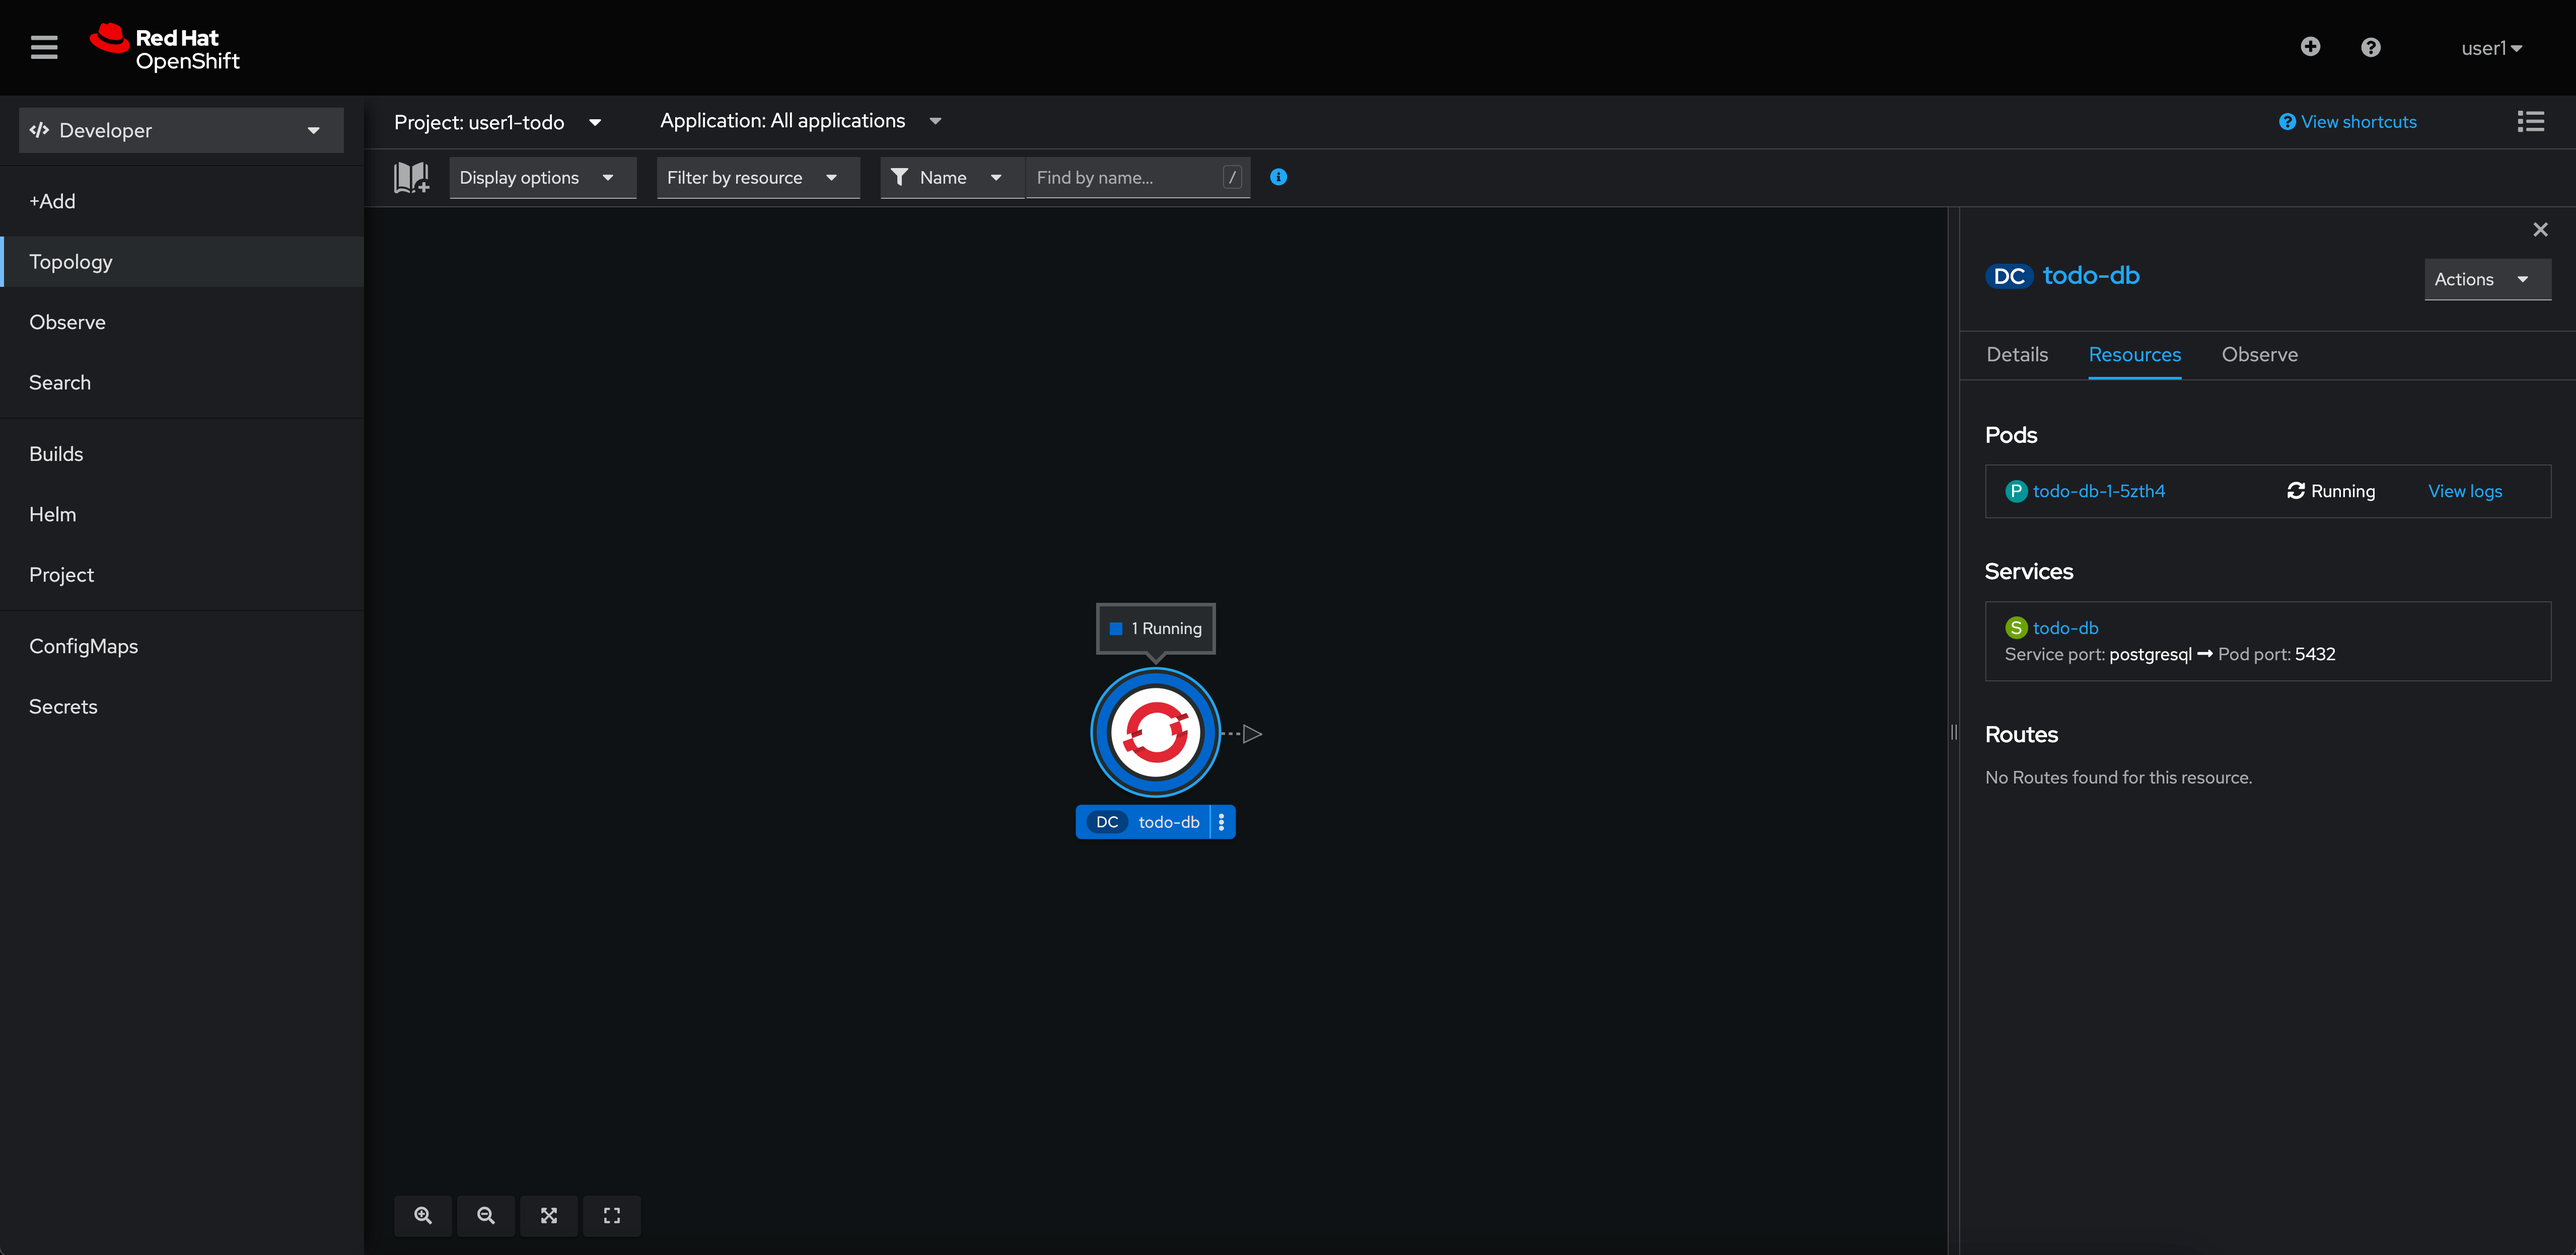
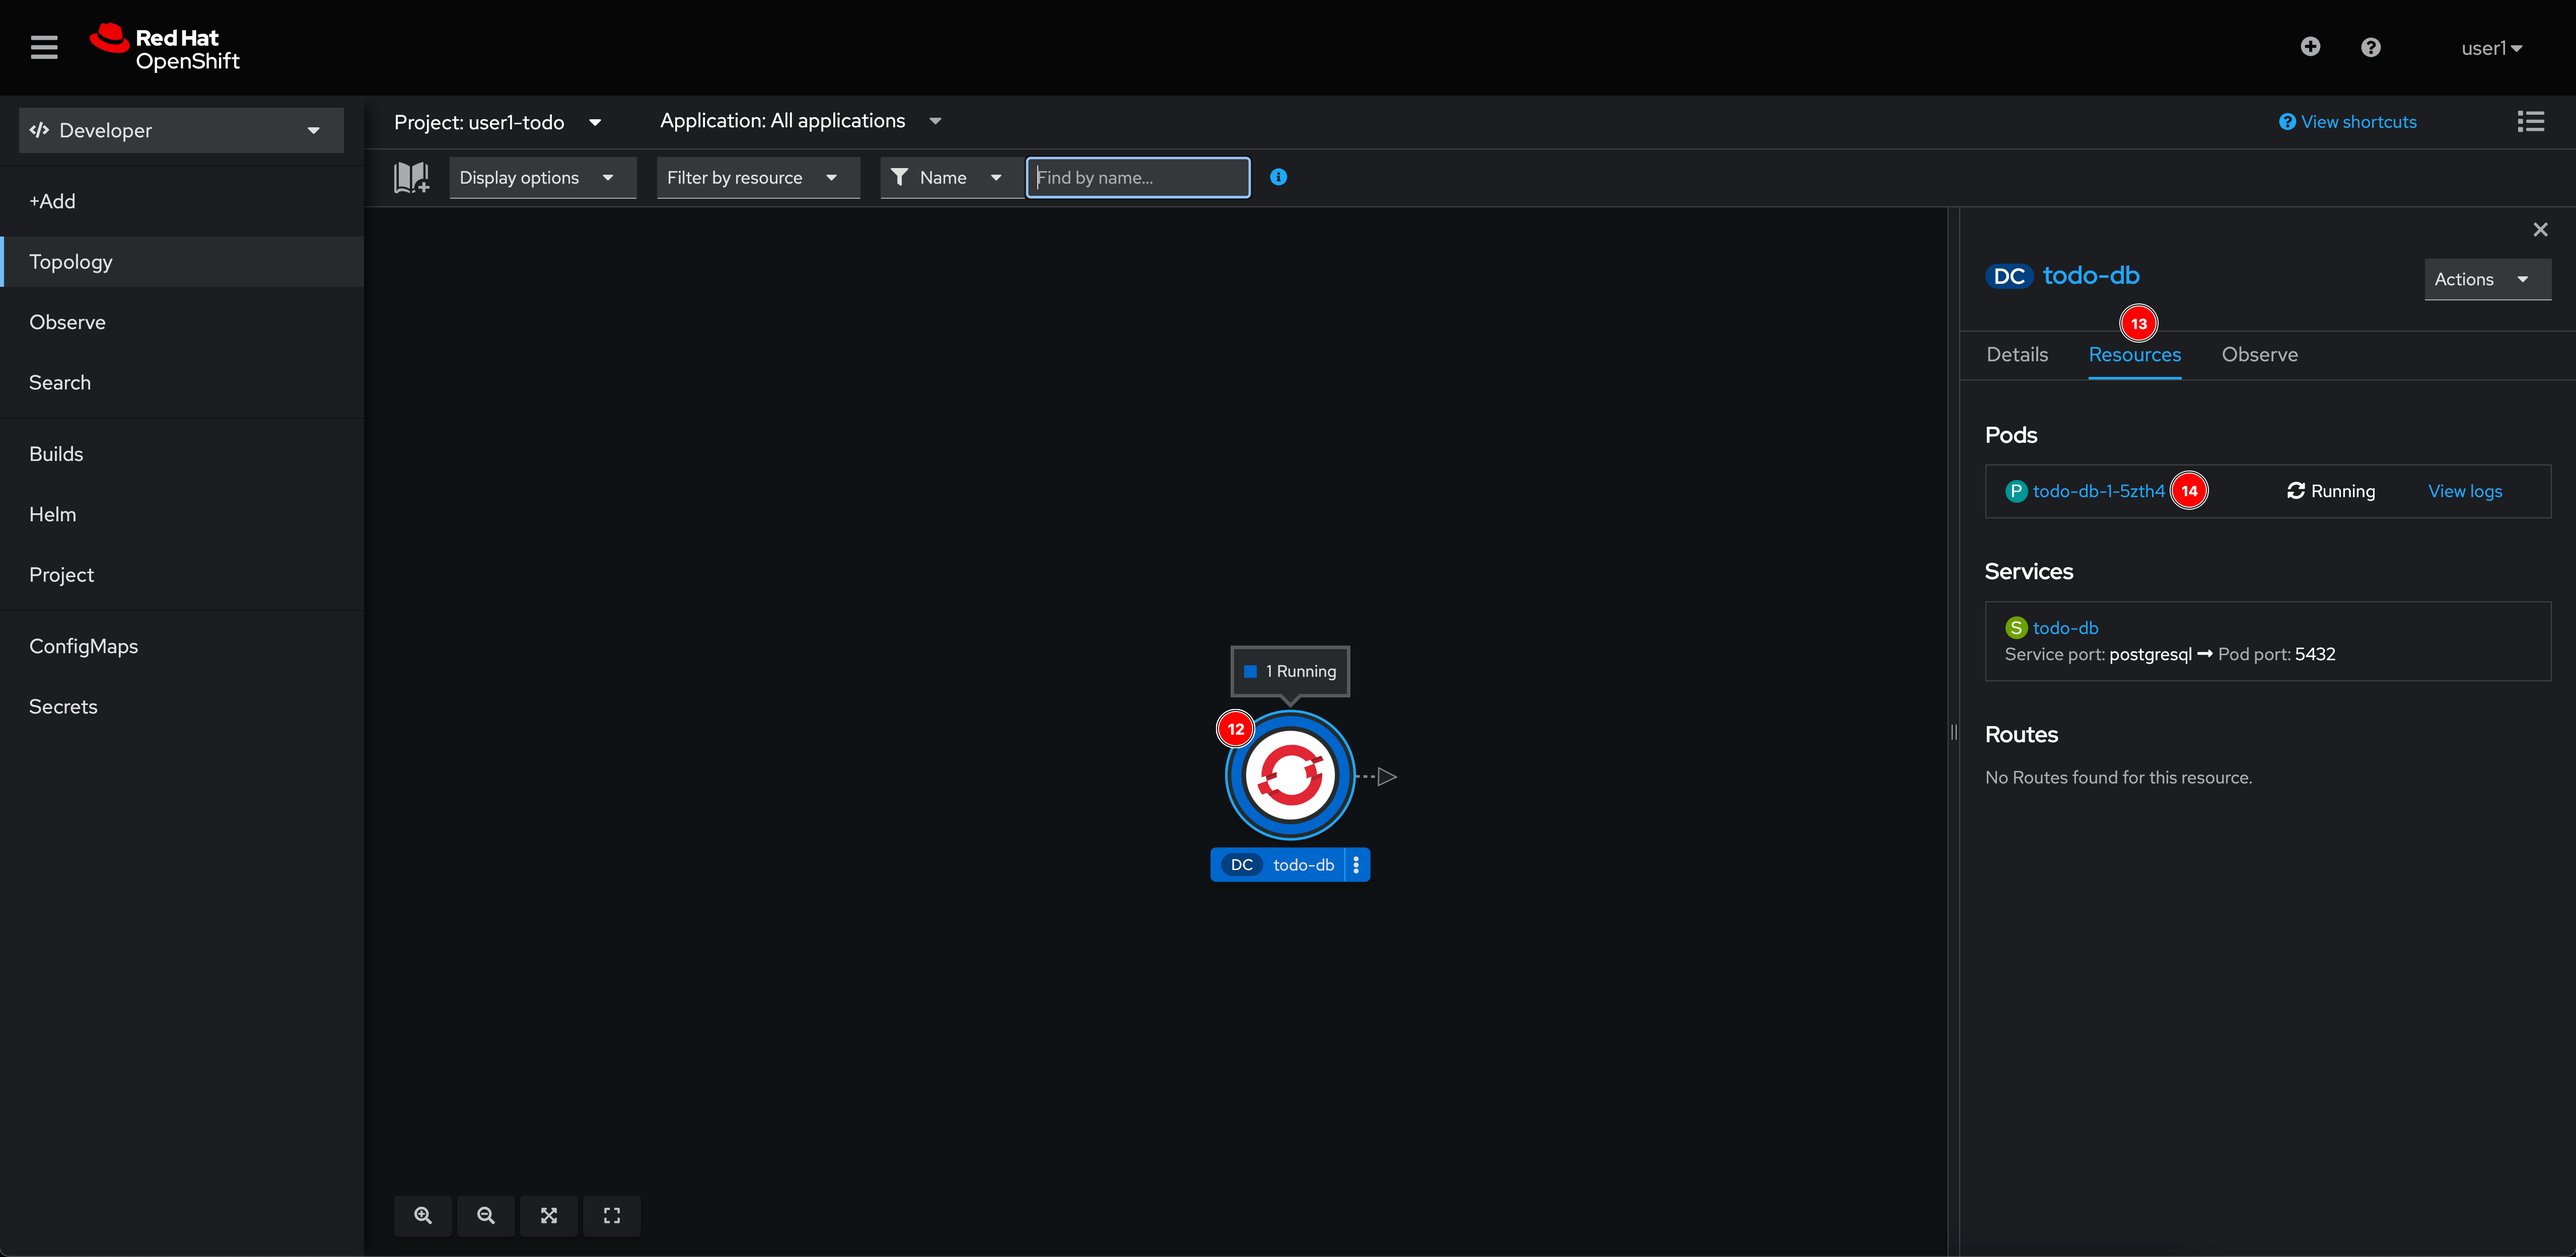
Complete the Deployment On OpenShift section

diff --git a/document/deployment-on-openshift/database-deployment.md b/document/deployment-on-openshift/database-deployment.md
@@ -43,7 +43,98 @@
 
    ![Enter database details](images/deploy-08.png)
 
-10. Wait until the **todo-db** node is surround with blue ring then click on the node. A panel will show up on the right side, click on the **Resources** tab to see Pods and Services.
+10. Wait until the **todo-db** node is surround with blue ring then click on the node. A panel will show up on the right side, click on the **Resources** tab to see Pods and Services. Then click on the Pod name.
 
-![Database pod is up and running](images/deploy-09.png)
+    ![Resources](images/deploy-09.png)
 
+11. Go to **Terminal** tab.
+
+    ![Open a web terminal](images/deploy-20.png)
+
+12. Enter following command. The password is `pgpassword`
+
+    ```sh
+    psql postgresql://todo-db:5432/todo?user=pguser
+    ```
+
+    _Example Output_
+
+    ```sh
+    psql (10.23)
+    Type "help" for help.
+
+    todo=#
+    ```
+
+13. Copy these SQL statements and paste to the terminal then press `Enter` on keyboard.
+
+    ```sql
+    drop table if exists Todo;
+    drop sequence if exists hibernate_sequence;
+    create sequence hibernate_sequence start 1 increment 1;
+    create table Todo (
+        id int8 not null,
+        completed boolean not null,
+        ordering int4,
+        title varchar(255),
+        url varchar(255),
+        primary key (id)
+        );
+    alter table if exists Todo
+        add constraint unique_title unique (title);
+    INSERT INTO todo(id, title, completed, ordering, url) VALUES (nextval('hibernate_sequence'), 'Introduction to Quarkus', true, 0, null);
+    INSERT INTO todo(id, title, completed, ordering, url) VALUES (nextval('hibernate_sequence'), 'Hibernate with Panache', false, 1, null);
+    INSERT INTO todo(id, title, completed, ordering, url) VALUES (nextval('hibernate_sequence'), 'Visit Quarkus web site', false, 2, 'https://quarkus.io');
+    INSERT INTO todo(id, title, completed, ordering, url) VALUES (nextval('hibernate_sequence'), 'Star Quarkus project', false, 3, 'https://github.com/quarkusio/quarkus/');
+    ```
+
+    _Example Output_
+
+    ```text
+    Type "help" for help.
+
+    postgres=# drop table if exists Todo;
+    NOTICE:  table "todo" does not exist, skipping
+    DROP TABLE
+    postgres=# drop sequence if exists hibernate_sequence;
+    NOTICE:  sequence "hibernate_sequence" does not exist, skipping
+    DROP SEQUENCE
+    postgres=# create sequence hibernate_sequence start 1 increment 1;
+    CREATE SEQUENCE
+    postgres=# create table Todo (
+    postgres(#        id int8 not null,
+    postgres(#        completed boolean not null,
+    postgres(#        ordering int4,
+    postgres(#        title varchar(255),
+    postgres(#        url varchar(255),
+    postgres(#        primary key (id)
+    postgres(#     );
+    CREATE TABLE
+    postgres=# alter table if exists Todo
+    postgres-#     add constraint unique_title unique (title);
+    ALTER TABLE
+    postgres=# INSERT INTO todo(id, title, completed, ordering, url) VALUES (nextval('hibernate_sequence'), 'Introduction to Quarkus', true, 0, null);
+    INSERT 0 1
+    postgres=# INSERT INTO todo(id, title, completed, ordering, url) VALUES (nextval('hibernate_sequence'), 'Hibernate with Panache', false, 1, null);
+    INSERT 0 1
+    postgres=# INSERT INTO todo(id, title, completed, ordering, url) VALUES (nextval('hibernate_sequence'), 'Visit Quarkus web site', false, 2, 'https://quarkus.io');
+    INSERT 0 1
+    postgres=# INSERT INTO todo(id, title, completed, ordering, url) VALUES (nextval('hibernate_sequence'), 'Star Quarkus project', false, 3, 'https://github.com/quarkusio/quarkus/');
+    INSERT 0 1
+    ```
+
+14. Run this command to verify if the table gets created.
+
+    ```sh
+    \dt
+    ```
+
+    *Example Output*
+
+    ```sh
+            List of relations
+    Schema | Name | Type  |  Owner
+    --------+------+-------+----------
+    public | todo | table | postgres
+    (1 row)
+    ```

diff --git a/document/deployment-on-openshift/application-deployment-s2i.md b/document/deployment-on-openshift/application-deployment-s2i.md
@@ -1,0 +1,41 @@
+# Build And Deploy Application Using S2I (Source To Image)
+
+1. Click **Add+** menu.
+
+   ![Add application](images/deploy-10.png)
+
+2. Select **Import from Git** in the Git Repository panel.
+
+   ![Import from Git](images/deploy-11.png)
+
+3. Enter **Git Repo URL** as `https://github.com/audomsak/quarkus-todo-app` then click **Show advanced Git options** link.
+
+   ![Import from Git](images/deploy-12.png)
+
+4. Enter `/todo` to the **Context dir** (this is because our application project is in the `todo` directory)
+
+   ![Import from Git](images/deploy-13.png)
+
+5. Scroll down and delete the **Application name** value. Then click **Create** button.
+
+   ![Import from Git](images/deploy-14.png)
+
+6. Click on the **quarkus-todo-app** node, then go to the **Resources** tab in the panel on the right and then click on **View logs** link to see build logs.
+
+   ![View build logs](images/deploy-15.png)
+
+7. You should be able to see application and container image builds logs.
+
+   ![Build logs](images/deploy-16.png)
+
+8. Wait until the build changes to `Completed`. Then select **Topology** menu to go back to the topology view.
+
+   ![Build logs](images/deploy-17.png)
+
+9. You should be able to see the **quarkus-todo-app** node is surrounded by blue ring (it means the Pod is up and running). Click on the arrow icon to open the application URL.
+
+   ![Open application URL](images/deploy-18.png)
+
+10. Application homepage shoud show up without any todo tasks. This is because the application is currently not able to connect to PostgreSQL database.
+
+    ![Application homepage](images/deploy-19.png)

diff --git a/document/deployment-on-openshift/application-config-configmap.md b/document/deployment-on-openshift/application-config-configmap.md
@@ -1,0 +1,56 @@
+# Configure Application With ConfigMap
+
+## Create ConfigMap
+
+1. Select **ConfigMaps** menu.
+
+   ![Create ConfigMap](images/deploy-22.png)
+
+2. Click on **Create ConfigMap** button.
+
+   ![Create ConfigMap](images/deploy-23.png)
+
+3. Enter following inputs:
+
+   - **Name:** `quarkus-todo-config`
+   - **Key:** `quarkus.datasource.username`
+   - **Value:** `pguser`
+
+    Then click **Add key/value** link
+
+   ![Create ConfigMap](images/deploy-24.png)
+
+4. Enter following inputs:
+
+   - **Key:** `quarkus.datasource.password`
+   - **Value:** `pgpassword`
+
+    Then click **Create** button.
+
+   ![Create ConfigMap](images/deploy-25.png)
+
+5. The new ConfigMap should be created.
+
+   ![Create ConfigMap](images/deploy-26.png)
+
+## Configure Application
+
+1. Go to **Topology** menu.
+
+   ![Set application configs](images/deploy-27.png)
+
+2. Select the **quarkus-todo-app** node, then click **quarkus-todo-app** Deployment link.
+
+   ![Set application configs](images/deploy-28.png)
+
+3. Go to **Environment** tab, Select the **quarkus-todo-config** ConfigMap we've just created earlier. Then click **Save** button.
+
+   ![Set application configs](images/deploy-29.png)
+
+4. Go to **Topology** menu and click on arrow icon to open application URL.
+
+   ![Set application configs](images/deploy-30.png)
+
+5. This time you should be able to see a list of todo tasks. The application can now connect to database successfully.
+
+   ![Set application configs](images/deploy-31.png)

diff --git a/document/SUMMARY.md b/document/SUMMARY.md
@@ -13,11 +13,10 @@
 
 ## Deployment On OpenShift
 
-- Database Deployment Via Web Console
-- Build And Deploy Application With S2I
-- Simple Application Scaling
-- Basic YAML Manifest
-- Configure Application With ConfigMap
+- [Database Deployment Via Web Console](deployment-on-openshift/database-deployment.md)
+- [Build And Deploy Application Using S2I](deployment-on-openshift/application-deployment-s2i.md)
+- [Configure Application With ConfigMap](deployment-on-openshift/application-config-configmap.md)
+- [Simple Application Scaling](deployment-on-openshift/simple-application-scaling.md)
 
 ## Monitoring And Logging
 

diff --git a/document/deployment-on-openshift/simple-application-scaling.md b/document/deployment-on-openshift/simple-application-scaling.md
@@ -1,0 +1,7 @@
+# Simple Application Scaling
+
+To scale the application manually, select the **quarkus-todo-app** node, then go to the **Details** tab. Click on up/down arrow to scale the application up/down as you need.
+
+Though, this is just a simple manual application scaling. You'll learn how to scale the application up/down automatically later.
+
+![Scale application](images/deploy-32.png)
